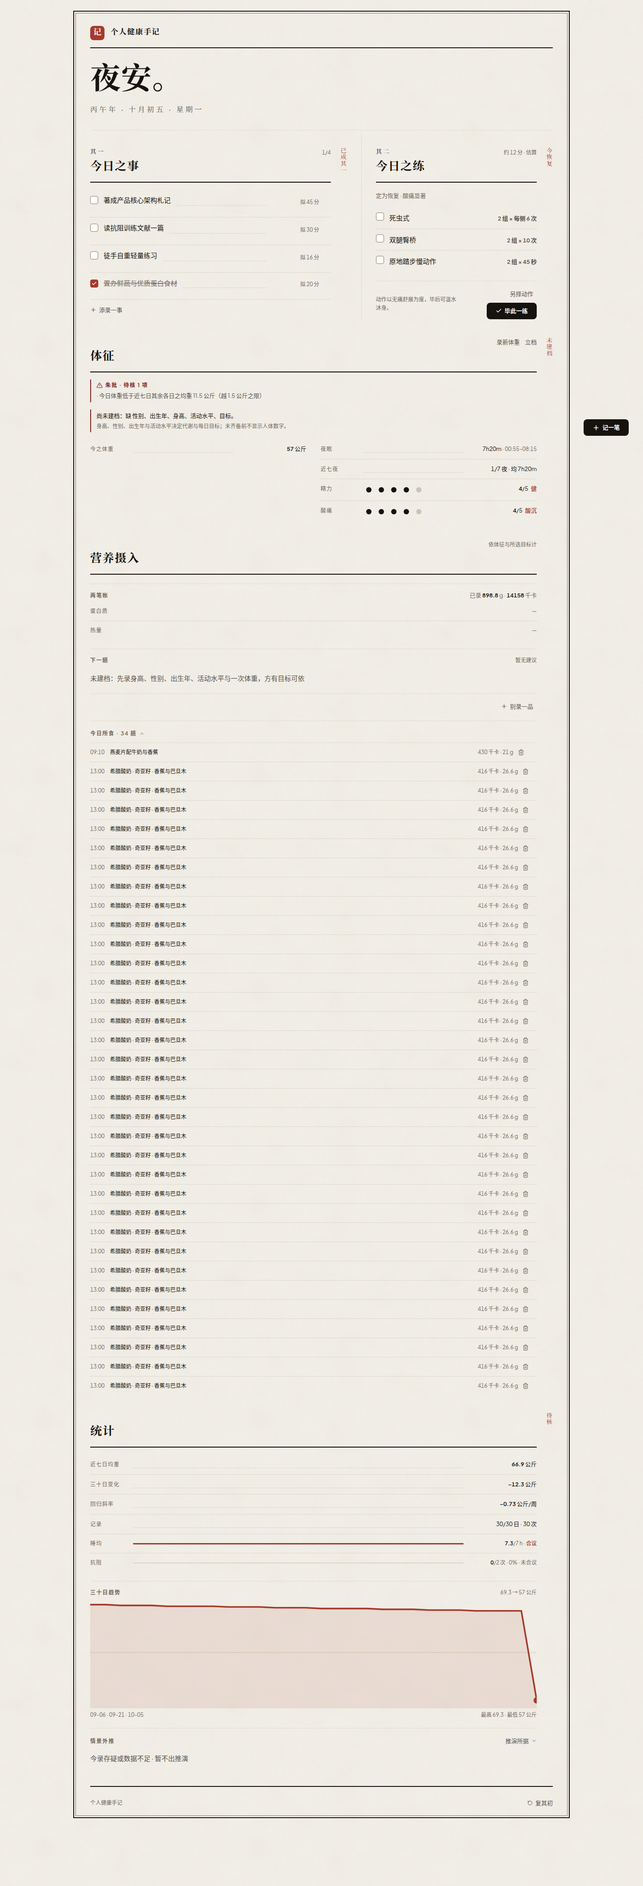
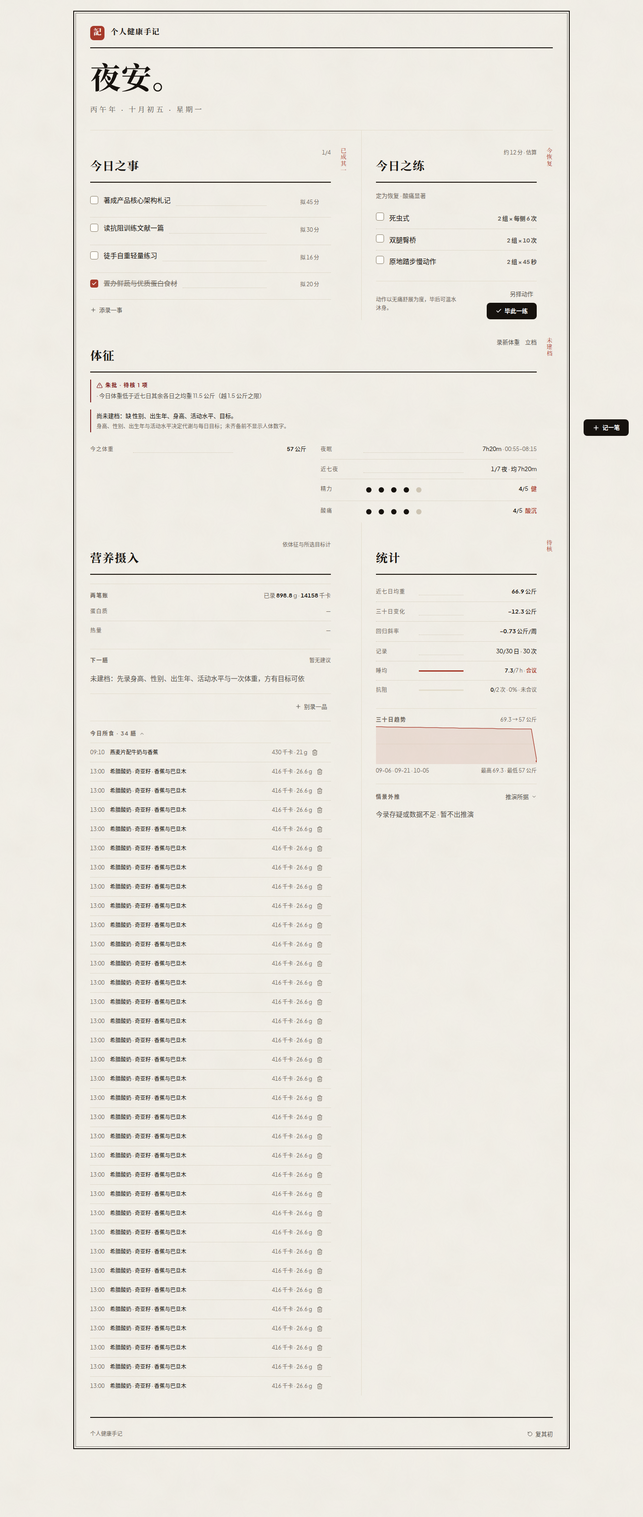
feat(ui): 版式修订三点——印记改繁体「記」、营养摄入与统计同行、撤其一/其二章序
- 繁体印记：public/favicon.svg 与刊头印章单字 记 → 記（繁体），报头与页脚字样不动
- 第二处配对行：营养摄入 ↔ 统计 并入与首行同网格的配对行（1.45fr | auto | 1fr + 1px 折缝，
  上下列缘对齐），体征夹于两行之间仍为唯一通栏；1440 全页高 3266 → 2289px；移动端次序不变
- 撤章序题头：SectionHead 的 ordinal prop 整体移除，眉行只余右注（1/4、约 27 分·估算），
  五处章节头形制完全一致；朱批「已成其一」按计数句释义保留
- 契约随改：layoutContract 行配对落位 ≥3 → ≥6（两处折缝+两格）；探针改「两处配对 +
  两处顶对齐」断言（实测 y 差 0px），LINE_CAPS 重测不变
- 文档同步：README 页面流/区块表/版式/字体段 + 变更清单 22 条；DESIGN 刷新行/IA 配对表/
  术语「不带章序」/成稿截图指向 v2；cnCount 注释更新
- 验证：9 套测试 + tsc + build + e2e（20 断言 exit 0）+ qa-states + 探针 --check
  @1440/1024/1023/768/640/390 六档全 PASS；impeccable detect 5 项 report-only

diff --git a/src/App.tsx b/src/App.tsx
@@ -522,7 +522,7 @@ export default function App() {
         )}
       </AnimatePresence>
 
-      {/* 单页流：刊头 → 其一其二同行 → 通栏体征 → 通栏营养摄入 → 通栏统计（外推收于统计之末） */}
+      {/* 单页流：刊头 → 今日之事 ↔ 今日之练同行 → 通栏体征 → 营养摄入 ↔ 统计同行（外推收于统计之末） */}
       <main className="w-full max-w-[1160px] mx-auto px-3 sm:px-6 py-6">
         {/* 版框：古书页式外粗内细双线，刊头、正文与页脚同入一框 */}
         <div className="border-2 border-ink p-[3px]">
@@ -533,7 +533,7 @@ export default function App() {
           timeGreeting={todayData.timeGreeting}
         />
 
-        {/* 其一其二同行：待办与今日之练排一行（折缝分栏;移动端纵向相随,
+        {/* 今日之事 ↔ 今日之练同行：待办与今日之练排一行（折缝分栏;移动端纵向相随,
             桌面两格同高同顶,章节横线跨栏同 y） */}
         <div className="grid grid-cols-1 lg:grid-cols-[1.45fr_auto_1fr] lg:gap-x-8">
           {/* 折缝：桌面中缝 1px 竖线,移动端隐藏 */}
@@ -579,32 +579,46 @@ export default function App() {
           onEditProfile={() => setProfileSheetOpen(true)}
         />
 
-        {/* 营养摄入通栏：今日之标、两笔账、下一膳与今日所食 */}
-        <NutritionSection
-          targets={todayData.targets}
-          trainingDayTargets={todayData.trainingDayTargets}
-          nutrition={todayData.nutrition}
-          meals={todayData.todayMeals}
-          onDeleteMeal={handleDeleteMeal}
-          nextMeal={todayData.nextMeal}
-          slotLabel={SLOT_CN[todayData.mealSlot] ?? '今日'}
-          goalLabel={GOAL_CN[todayData.profile.goal ?? 'general fitness'] ?? '日常强身'}
-          suggestedLoggedToday={
-            todayData.todayMeals.filter((meal) => meal.source === 'suggested').length
-          }
-          onQuickLogSuggested={handleQuickLogSuggestedMeal}
-          onAddCustomMeal={() => handleOpenRecord('meal')}
-        />
+        {/* 营养摄入 ↔ 统计同行：与第一处配对行同列格同折缝（移动端纵向相随,
+            桌面两格同高同顶,列缘与上一行上下对齐） */}
+        <div className="grid grid-cols-1 lg:grid-cols-[1.45fr_auto_1fr] lg:gap-x-8">
+          {/* 折缝：桌面中缝 1px 竖线,移动端隐藏 */}
+          <div
+            aria-hidden="true"
+            className="hidden lg:block lg:self-stretch lg:col-start-2 lg:row-start-1 w-px bg-line"
+          />
 
-        {/* 统计通栏：由此算出的数、趋势与均值、履行合议与情景外推 */}
-        <StatsSection
-          body={todayData.body}
-          weight={todayData.weight}
-          sleep={todayData.sleep}
-          trainingTarget={todayData.trainingTarget}
-          training={todayData.training}
-          forecast={todayData.forecast}
-        />
+          <div className="lg:col-start-1 lg:row-start-1">
+            {/* 营养摄入：今日之标、两笔账、下一膳与今日所食 */}
+            <NutritionSection
+              targets={todayData.targets}
+              trainingDayTargets={todayData.trainingDayTargets}
+              nutrition={todayData.nutrition}
+              meals={todayData.todayMeals}
+              onDeleteMeal={handleDeleteMeal}
+              nextMeal={todayData.nextMeal}
+              slotLabel={SLOT_CN[todayData.mealSlot] ?? '今日'}
+              goalLabel={GOAL_CN[todayData.profile.goal ?? 'general fitness'] ?? '日常强身'}
+              suggestedLoggedToday={
+                todayData.todayMeals.filter((meal) => meal.source === 'suggested').length
+              }
+              onQuickLogSuggested={handleQuickLogSuggestedMeal}
+              onAddCustomMeal={() => handleOpenRecord('meal')}
+            />
+          </div>
+
+          <div className="lg:col-start-3 lg:row-start-1">
+            {/* 统计：由此算出的数、趋势与均值、履行合议与情景外推 */}
+            <StatsSection
+              body={todayData.body}
+              weight={todayData.weight}
+              sleep={todayData.sleep}
+              trainingTarget={todayData.trainingTarget}
+              training={todayData.training}
+              forecast={todayData.forecast}
+            />
+          </div>
+        </div>
 
         {/* 页脚：2px 粗线收尾 */}
         <footer className="mt-12 pt-6 pb-4 text-xs text-ink4 flex flex-col sm:flex-row items-center justify-between gap-3 font-sans border-t-2 border-ink">

diff --git a/src/components/SectionHead.tsx b/src/components/SectionHead.tsx
@@ -1,11 +1,9 @@
-// 奏折式章节头:眉行(章序 + 右注) → 题行(26px 衬线) → 全页唯一的 2px 墨线。
+// 奏折式章节头:眉行(右注) → 题行(26px 衬线) → 全页唯一的 2px 墨线。
 // 朱批旁注竖排贴在章节右侧的旁批槽(lg:pr-9 预留 36px),窄屏降级为题下横排朱批。
 // deslop-ignore-file 07
 import React from 'react';
 
 interface SectionHeadProps {
-  /** 章序「其一 / 其二 / 其三」;右栏附目与通栏不带章序 */
-  ordinal?: string;
   title: string;
   /** 右注:时段、计数、章节级动作(眉行右端) */
   note?: React.ReactNode;
@@ -13,18 +11,13 @@ interface SectionHeadProps {
   verdict?: string;
 }
 
-export const SectionHead: React.FC<SectionHeadProps> = ({ ordinal, title, note, verdict }) => (
+export const SectionHead: React.FC<SectionHeadProps> = ({ title, note, verdict }) => (
   <div className="relative pb-3 border-b-2 border-ink">
     {/* 题下双线：2px 墨 + 1px 细线（与版框同构） */}
     <div aria-hidden="true" className="absolute inset-x-0 -bottom-[3px] border-b border-line" />
-    {/* 眉行:固定 18px 定高(居中而非基线对齐,免得衬线序与无衬线右注的字面差 2px),
-        保证六个章节头等高 → 跨栏横线同 y */}
+    {/* 眉行:固定 18px 定高(居中而非基线对齐,免得衬线字与无衬线右注的字面差 2px),
+        保证五个章节头等高 → 跨栏横线同 y */}
     <div className="flex items-center gap-4 h-[18px] leading-[18px]">
-      {ordinal && (
-        <span className="font-serif text-[13px] font-bold text-ink2 tracking-[0.3em] shrink-0">
-          {ordinal}
-        </span>
-      )}
       {note && <span className="ml-auto shrink-0">{note}</span>}
     </div>
 

diff --git a/src/tests/layoutContract.test.ts b/src/tests/layoutContract.test.ts
@@ -43,7 +43,7 @@ assert(
   `every <h2 lives in SectionHead.tsx (found in: ${headingFiles.join(', ') || 'none'})`
 );
 
-// 自治章节（自带章节头 + 旁批槽）：其一其二同行 + 三通栏;
+// 自治章节（自带章节头 + 旁批槽）：两处配对行（今日之事/今日之练、营养摄入/统计）+ 体征通栏;
 // NextMealCard 嵌在营养摄入节内为组块,由组题 .group-head 承担,不占章节头。
 const SECTIONED = [
   'TodayTasks.tsx',
@@ -72,10 +72,11 @@ for (const f of componentFiles) {
 }
 
 // --- 3. row pairing in App (cross-column rules must share y) --------------------
-// 新 IA（经批准的重构）：只有其一其二一处配对行(折缝 + 两格 = 3 处落位),
-// 体征/营养/统计为通栏纵列,不再参与行配对;配对等高改由 probe 的行顶/行差断言把守。
+// 新 IA（经批准的重构）：两处配对行——今日之事↔今日之练、营养摄入↔统计
+// (每处 = 折缝 + 两格 = 3 处落位,共 6 处),体征为唯一通栏纵列;
+// 配对等高改由 probe 的行顶/行差断言把守。
 const rowStarts = app.match(/lg:row-start-\d/g) ?? [];
-assert(rowStarts.length >= 3, `App places the paired row explicitly (found ${rowStarts.length} placements)`);
+assert(rowStarts.length >= 6, `App places both paired rows explicitly (found ${rowStarts.length} placements)`);
 assert(app.includes('lg:col-start-1'), 'left column is explicitly placed');
 assert(/lg:col-start-\d/.test(app.replace(/lg:col-start-1/g, '')), 'right column is explicitly placed');
 

diff --git a/src/components/HeaderGreeting.tsx b/src/components/HeaderGreeting.tsx
@@ -16,7 +16,7 @@ export const HeaderGreeting: React.FC<HeaderGreetingProps> = ({
       {/* 刊头：印章 + 报头（录一笔只在右下角一处,不在刊头重复） */}
       <div className="flex items-center gap-3.5 pt-7 pb-4 border-b-2 border-ink">
         <span className="w-8 h-8 shrink-0 grid place-items-center rounded-lg bg-seal text-white font-serif text-lg font-bold select-none">
-          记
+          記
         </span>
 
         <div className="font-serif text-[17px] font-bold text-ink leading-tight tracking-[0.08em]">

diff --git a/src/components/NextWorkoutCard.tsx b/src/components/NextWorkoutCard.tsx
@@ -69,9 +69,8 @@ export const NextWorkoutCard: React.FC<NextWorkoutCardProps> = ({
 
   return (
     <section className="pt-10 lg:pr-9">
-      {/* 章节题：其二 · 今日之练（与「其一 今日之事」同排一行,统一章节头 + 朱批旁注） */}
+      {/* 章节题：今日之练（与「今日之事」同排一行,统一章节头 + 朱批旁注） */}
       <SectionHead
-        ordinal="其二"
         title="今日之练"
         verdict={`今${getTrainingStateLabel()}`}
         note={

diff --git a/src/components/TodayTasks.tsx b/src/components/TodayTasks.tsx
@@ -44,9 +44,8 @@ export const TodayTasks: React.FC<TodayTasksProps> = ({
 
   return (
     <section className="pt-10 lg:pr-9">
-      {/* 章节题：其一 · 今日之事（统一章节头 + 朱批旁注） */}
+      {/* 章节题：今日之事（统一章节头 + 朱批旁注） */}
       <SectionHead
-        ordinal="其一"
         title="今日之事"
         verdict={
           tasks.total === 0

diff --git a/src/utils/cnCount.ts b/src/utils/cnCount.ts
@@ -1,4 +1,4 @@
-// 中文小数计数(零…十),刊头「凡四事,已成其一」与朱批旁注共用。
+// 中文小数计数(零…十),朱批旁注「已成其一」等计数句共用。
 const CN_SMALL = ['零', '一', '二', '三', '四', '五', '六', '七', '八', '九', '十'];
 
 export const cnCount = (n: number): string => (n >= 0 && n <= 10 ? CN_SMALL[n] : String(n));

diff --git a/README.md b/README.md
@@ -13,17 +13,17 @@
 页面按一条自然的单页流组织：
 
 ```
-刊头 → **其一 今日之事 ↔ 其二 今日之练（同一配对行）** → 体征（通栏）→ 营养摄入（通栏）→ 统计（通栏，情景外推收于其末）
+刊头 → **今日之事 ↔ 今日之练（配对行一）** → 体征（通栏）→ **营养摄入 ↔ 统计（配对行二，情景外推收于统计之末）**
 ```
 
 | 区块 | 功能 |
 | --- | --- |
 | **刊头与序** | 印章报头与存储标识；「朝安 / 昼安 / 夜安」时段问候 + 干支日期行——只留问候与日期，今日状况不在刊头重复；一键唤起录事 |
-| **其一 今日之事** | 今日待办（增 / 删 / 勾选），行内「添录一事」速记；每事「拟时长」可随手改、可直清（1–720 分整数，清后行内显示「拟时长 —」）；完成率只由 `status` 决定 |
-| **其二 今日之练** | 与「其一」同一配对行（桌面折缝分栏，移动端相随）：按睡眠、精力、酸痛、今日是否已练判定训练状态（REST / RECOVERY / LIGHT / NORMAL），课表由**肌群账本 + 既往历史 + 每日时间预算**智能搭配组合，时长与恢复指引同列；可就地改每行动作、组数与次数 |
+| **今日之事** | 今日待办（增 / 删 / 勾选），行内「添录一事」速记；每事「拟时长」可随手改、可直清（1–720 分整数，清后行内显示「拟时长 —」）；完成率只由 `status` 决定 |
+| **今日之练** | 与「今日之事」同一配对行（桌面折缝分栏，移动端相随）：按睡眠、精力、酸痛、今日是否已练判定训练状态（REST / RECOVERY / LIGHT / NORMAL），课表由**肌群账本 + 既往历史 + 每日时间预算**智能搭配组合，时长与恢复指引同列；可就地改每行动作、组数与次数 |
 | **体征（通栏）** | 只收**原始事实**，不放示数：今之体重与「录新体重」、建档所录（身高 / 性别 / 岁 / 活动水平 / 腰围）、夜眠**由就寝/起身时刻推得**与近七夜（只按有记录夜数平均）、精力 (1–5)、酸痛 (1–5) 圆点（`DotScale`，点按即调）；数据待核朱批集中于此；未建档只显示缺什么，绝不拿演示数据冒充 |
-| **营养摄入（通栏）** | **依个人体征与饮食目标算出今日之标**：每日热量、每日蛋白（1.4–2.0 g/kg 区间）、每日脂肪与碳水，练日按「×1.1 且至多 +400」上浮（标「练日」）；两笔账（**未达「尚余」、超出「已超」**）、下一膳（基于已摄入缺口排序推荐，给出**热量与蛋白质区间**，「照准」一键入账）、今日所食逐条「掷还」 |
-| **统计（通栏）** | 一切**算出来的数**集中于此：体重指数（WHO 分类）、静息代谢（Mifflin-St Jeor）、总消耗（RMR×PAL）、每周抗阻处方；趋势与均值——近七日均重（留一基线）、三十日变化（端点）与回归斜率**分列**、记录（有效日/原始条数）、睡均与本周抗阻对照 AASM / WHO 合议；附三十日趋势折线（**全页唯一图表**）与情景外推（四周/八周/十二周，`scenario_trend_projection`，标注模型版本与依据日数，数据存疑即暂阙） |
+| **营养摄入（配对行二 · 左）** | **依个人体征与饮食目标算出今日之标**：每日热量、每日蛋白（1.4–2.0 g/kg 区间）、每日脂肪与碳水，练日按「×1.1 且至多 +400」上浮（标「练日」）；两笔账（**未达「尚余」、超出「已超」**）、下一膳（基于已摄入缺口排序推荐，给出**热量与蛋白质区间**，「照准」一键入账）、今日所食逐条「掷还」 |
+| **统计（配对行二 · 右）** | 一切**算出来的数**集中于此：体重指数（WHO 分类）、静息代谢（Mifflin-St Jeor）、总消耗（RMR×PAL）、每周抗阻处方；趋势与均值——近七日均重（留一基线）、三十日变化（端点）与回归斜率**分列**、记录（有效日/原始条数）、睡均与本周抗阻对照 AASM / WHO 合议；附三十日趋势折线（**全页唯一图表**）与情景外推（四周/八周/十二周，`scenario_trend_projection`，标注模型版本与依据日数，数据存疑即暂阙） |
 | **录事弹层** | 底部弹层，三签：进食 / 习练 / 体征；**进食页内嵌食物营养档案库**（115 品、每 100g 的热量/蛋白质/脂肪），搜名即现、点选自动回填克数与约计——档案库只在录入时出现，不占主页 |
 | **决策痕迹（数据层）** | 引擎每次推荐都产出 `trace`（输入快照 / 推导值 / 前提 / 局限）与 `evidenceTraces`（证据出处）；页面不再设稽核弹窗，口径与阈值见本文件「术语与口径」 |
 | **复其初** | 页脚一键恢复到初始的三十日模拟数据 |
@@ -128,16 +128,16 @@ src/
 
 ### 字体与视觉约定（编辑式手记风）
 
-- **三个 Web 字体，各司其职**：`Newsreader` + `Noto Serif SC` 只用于标题、章序与大号数字，`Plus Jakarta Sans` 承担正文、标签与小号数字（统一 `tabular-nums`），`font-mono` 是系统等宽栈、**只用于规则 ID / 证据键名**。
-- **标题全中文、古记事体**：章节头统一由 `src/components/SectionHead.tsx` 输出：**眉行（章序＋右注，固定 18px）→ 题行 26px 衬线 → 外粗内细双线（2px 墨 + 1px 细）**，右栏附目与通栏同规格；眉行右端之外，章节右侧另有 36px **旁批槽**，朱色竖排小字写裁决（如「已成其一」「照减脂之期」「抗阻合议」），窄屏降级为题下横排朱批，日期行是干支年 + 中文月日 + 星期（如 `丙午年 · 九月廿五 · 星期五`，由时钟推导，1984 年为甲子），刊头是朱红「记」印章 + 「个人健康手记」报头，刊头与页脚各压一条 2px 墨线。
+- **三个 Web 字体，各司其职**：`Newsreader` + `Noto Serif SC` 只用于标题与大号数字，`Plus Jakarta Sans` 承担正文、标签与小号数字（统一 `tabular-nums`），`font-mono` 是系统等宽栈、**只用于规则 ID / 证据键名**。
+- **标题全中文、古记事体**：章节头统一由 `src/components/SectionHead.tsx` 输出：**眉行（右注，固定 18px）→ 题行 26px 衬线 → 外粗内细双线（2px 墨 + 1px 细）**，右栏附目与通栏同规格；眉行右端之外，章节右侧另有 36px **旁批槽**，朱色竖排小字写裁决（如「已成其一」「照减脂之期」「抗阻合议」），窄屏降级为题下横排朱批，日期行是干支年 + 中文月日 + 星期（如 `丙午年 · 九月廿五 · 星期五`，由时钟推导，1984 年为甲子），刊头是朱红繁体「記」印章 + 「个人健康手记」报头（站点图标同字），刊头与页脚各压一条 2px 墨线。
 - **设计令牌集中在 `src/index.css @theme`**：纸色 `--color-paper #f4f0e8`、卡面 `#fffdf8`、线 `#e3dccc`、墨 `#16120e`（次级 `#57534e` / `#6f675e` / `#736b61`，四档对纸底 16.4 : 6.7 : 4.9 : 4.6:1，**全部 ≥4.5:1**）。**既定锚色**：古书纸（纸/面/线全套）与批朱红 `#a63a2b`。功能色取五版比选稿 `docs/palette-options.html` 中选中的**「其五 · 朱墨双色」**（奏折制：墨＝臣工所书，朱＝御批）：唯一强调色 `--color-accent #a63a2b` 朱批（对纸 5.66:1、白字压朱 6.44:1；浅调 `#fbeee9` / `#f2d9d0`、压墨亮色 `#fda4af` 9.85:1），**朱同时承担刊头印章与状态色**；危险色 `--color-danger #7f1d1d` 紫檀绛（8.82:1、白字 10.02:1，与朱拉明度差）、证据次级色 `--color-tier2 #7a5a2e` 褐（5.55:1）、控件边框 `--color-control #877c69`（3.61:1，满足 WCAG 1.4.11）。文字色阈值由 `src/tests/contrast.test.ts` 回归锁定。
 - **可读性与无障碍地板（本轮新增约定）**：正文/元信息字号地板 **12px**、交互文字 13px（源码中已无 `text-[11px]`/`text-[11.5px]`，仅规则 ID 等宽行保留 11px）；`:focus-visible` 全局 2px 墨线焦点环，源码**不得**再用 `outline-hidden` 类吃环；所有点击目标 ≥24px（复选框为「24px 热区 + 18px 可视」双层、1–5 分圆点 `w-6 h-6`、图标按钮 `p-1.5`）；带 `onClick` 的行一律用 `<button>` 并带 `aria-pressed`；体重图 `aria-label` 携带真值与单位。
-- **动作两级体系，朱只表裁决与状态**：`.btn-primary`（墨实心：照准 / 毕此一练 / 览毕）→ `.btn-link`（文字链：别录一品 / 另择动作 / 添录一事 / 记此一刻 / 复其初 / 推演所据等），类定义在 `src/index.css @layer components`。**朱只用于「已成 / 达标 / 御批 / 图表」**：勾选框、完成徽标、Toast 勾、达标句（合议 · 每周两日抗阻 / 合议 · 七时之基）、状态词（健 / 微酸）、旁批、计量条达标填充与体重折线；章序与一切动作型文字/图标改为墨色。
+- **动作两级体系，朱只表裁决与状态**：`.btn-primary`（墨实心：照准 / 毕此一练 / 览毕）→ `.btn-link`（文字链：别录一品 / 另择动作 / 添录一事 / 记此一刻 / 复其初 / 推演所据等），类定义在 `src/index.css @layer components`。**朱只用于「已成 / 达标 / 御批 / 图表」**：勾选框、完成徽标、Toast 勾、达标句（合议 · 每周两日抗阻 / 合议 · 七时之基）、状态词（健 / 微酸）、旁批、计量条达标填充与体重折线；一切动作型文字/图标改为墨色。
 - **圆角只有一档 8px**（`rounded-lg`），只留表单控件与按钮；`rounded-full` 只留给真正的圆形（状态点、圆点单选）；没有 `backdrop-blur`、没有超大阴影，**页面栏目一律不用卡片容器**。
 - **仿真古书纸与版框**：`body` 以 `--color-paper` 为底，叠两层内联 SVG 噪点（纤维纹 6% + 陈化斑驳 7%，不用氛围渐变）做纸张质感；全页内容入「外粗内细」双线版框（`border-2` 外框 + `border/55` 内线），刊头、正文与页脚同框；区块只以墨色粗细线与点线分隔，数值一律入句。
 - **全页只留一张图表，其余数字入句**：唯一图表是 30 日体重折线（`TodayData.weightSeries`，手画 SVG，来自真实记录、不造序列）；摄入、趋势、预测区间都写成手记行文，精力与酸痛用两行对齐的 1–5 圆点点按——**没有 KPI 卡、没有瓦片墙、没有环形进度**；比例信息只用**墨线计量条**（`RuleMeter`：3px 直角细线，底轨 `--color-line`，填充墨＝进行中 / 朱＝达标 / 绛＝超录，无圆角阴影渐变动画），百分比与分子分母一律以真实文本入句（蛋白质 63/110 g · 57%、抗阻 2/2 · 100% · 合议、睡均 7.3/7 h）；睡眠只报达标与否、不给百分比。
-- **版式**：容器 1100px；**唯一配对行**＝其一 今日之事 ↔ 其二 今日之练（桌面 `lg:grid-cols-[1.45fr_auto_1fr]` 显式落位，中缝一条 1px 折缝线，两章横线跨栏同 y；两格同高，移动端纵排相随）；其下三节**通栏纵列**＝体征 → 营养摄入 → 统计（各自 `lg:pr-9` 留 36px 旁批槽；统计以「情景外推」组块收尾）。体征与统计内部再按两栏并置，各栏自成一轴（名/中/值三列同轴全等，探针逐轴校验）。移动端单栏按 DOM 次序（其一 → 其二 → 体征 → 营养摄入 → 统计）。章节级动作统一收在章末「动作脚注行」（`.section-actions`），节内小标题用 `.group-head`。
-- **文案全取古风行文，不用现代白话**：时段问候作「朝安 / 昼安 / 夜安。」，主句作「凡四事，已成其一。」；章节作「下一膳 / 今日之练」，动作作「录之 / 罢 / 照准 / 毕此一练 / 览毕」，危险动作作「掷还」，报错作「膳食之录未成（code）」，反馈作「知道了 · 一事已列入今日之册」（成功回执一律冠「知道了 ·」，失败不冠），达标作「合议 / 未合议 · 尚差二日」，页脚只留报头与「复其初」；记录表单标签（餐别 / 所食之物 / 就寝 / 起身 / 精力 / 酸痛 …）同此体例。**保留不改的只有三类**：文献引文与 `claim`/`limitations`（`scientificEvidence.ts`，学术原貌即证据本身）、规则 ID 与 ASCII 单位符号（kcal / kg / AASM / RIR）、食物与练习的中文专名。
+- **版式**：容器 1100px；**两处配对行**＝① 今日之事 ↔ 今日之练 ② 营养摄入 ↔ 统计（同为桌面 `lg:grid-cols-[1.45fr_auto_1fr]` 显式落位，各以一条 1px 折缝分栏，上下列缘对齐、两章横线跨栏同 y；两格同高，移动端纵排相随）；**体征为唯一通栏节**，夹于两行之间（`lg:pr-9` 留 36px 旁批槽；统计以「情景外推」组块收尾）。体征内部按两栏并置、各栏自成一轴（名/中/值三列同轴全等，探针逐轴校验）。移动端单栏按 DOM 次序（今日之事 → 今日之练 → 体征 → 营养摄入 → 统计）。章节级动作统一收在章末「动作脚注行」（`.section-actions`），节内小标题用 `.group-head`。
+- **文案全取古风行文，不用现代白话**：时段问候作「朝安 / 昼安 / 夜安。」；章节作「下一膳 / 今日之练」，动作作「录之 / 罢 / 照准 / 毕此一练 / 览毕」，危险动作作「掷还」，报错作「膳食之录未成（code）」，反馈作「知道了 · 一事已列入今日之册」（成功回执一律冠「知道了 ·」，失败不冠），达标作「合议 / 未合议 · 尚差二日」，页脚只留报头与「复其初」；记录表单标签（餐别 / 所食之物 / 就寝 / 起身 / 精力 / 酸痛 …）同此体例。**保留不改的只有三类**：文献引文与 `claim`/`limitations`（`scientificEvidence.ts`，学术原貌即证据本身）、规则 ID 与 ASCII 单位符号（kcal / kg / AASM / RIR）、食物与练习的中文专名。
 - 少量扫描器命中是**刻意保留**的（衬线标题、圆形控件、已完成事项的删除线、规则 ID 的等宽字、图表端点圆点），在源码里用 id 级注释标注原因，例如 `deslop-ignore-file 07 09`；现行扫描门禁为 `impeccable detect`（对运行页面）——5 项 report-only（暖纸底与主字体为本册定稿的自觉选择、章节头上下留白节奏 ×3），无破坏性发现。
 
 ### Visual Ralph 参考稿与实现偏差
@@ -303,6 +303,13 @@ npm run build
     - **IA 重构**：删状态句（刊头只留问候与日期）；今日之事 ↔ 今日之练并为**唯一配对行**；体征（原始事实 + 待核朱批）/ 营养摄入（目标 + 两笔账 + 下一膳 + 所食账）/ 统计（派生数 + 趋势图 + 合议 + 情景外推）三通栏纵列——原「今日体感 / 身体近况 / 体征档 / 近况 / 情景外推」五节解散归位（`BodySection` / `NutritionSection` / `StatsSection` 三个新组件，旧五件删除）。
     - **契约重切**：`layoutContract` 的 SECTIONED、行配对（唯一配对行 ≥1 对，旧 ≥6 落位锁作废）、骨架文件清单随新 IA 更新；`presentationContract` 的展示文件与「单源」断言改指新主（刊头锁死不回流状态句）；探针 LINE_CAPS 按新五节重测登记、章节头 ≥5、配对断言改一对；e2e 轴校验按「章节 + 名列左缘」分组（通栏与半栏同 x 不同轴）。
     - **验证**：9 套测试 + `tsc` + `build` + e2e 全绿；`layout-probe --check` @1440 / 1023 / 768 / 640 / 390 全 PASS（溢出 0、配对行高差 0、同轴三列全等）；qa-states 注入遗留异常态仍「待核 · 不出推演」且今之体重原样 57；1440 与 390 截图复核。
+
+22. **版式修订**（本轮，用户三点意见）：
+    - **繁体印记**：刊头印章与站点图标（`public/favicon.svg`）的单字由「记」改「記」，报头与页脚字样不动。
+    - **营养摄入 ↔ 统计同行**：两节并入**第二处配对行**（与首行同网格 `1.45fr | auto | 1fr`、同折缝、上下列缘对齐），体征夹于两行之间仍为唯一通栏；1440 全页高由 3266 → 2289px。
+    - **撤章序题头**：删除「其一 / 其二」眉行章序（`SectionHead` 的 `ordinal` prop 整体移除，眉行只余右注），五处章节头形制完全一致；朱批「已成其一」按计数释义保留。
+    - **契约与工具随改**：`layoutContract` 行配对落位 ≥6（两处折缝+两格）；探针改「两处配对 + 两处顶对齐」断言，LINE_CAPS 重测不变；新增工具层教训——**e2e 输出勿重定向入工作区**（Vite watch 见工作区写入即 full-reload，杀掉运行中弹层），已在 `e2e.mjs` 头注明改走管道或 `/tmp`。
+    - **验证**：9 套测试 + `tsc` + `build` + e2e（exit 0）+ qa-states + 六档探针 @1440/1024/1023/768/640/390 全 PASS；`impeccable detect` 5 项 report-only；截图 `.shots/v2-desktop.png` / `.shots/v2-mobile.png`。
 
 ### 仍待补齐（真实项目的下一步）
 

diff --git a/DESIGN.md b/DESIGN.md
@@ -2,13 +2,13 @@
 
 ## Source of truth
 - Status: **Active**
-- Last refreshed: 2026-10-05（八点重构：食物营养档案库 + 摄入依个人数据计算 + 训练计划智能搭配 + IA 重构——刊头只留问候、其一其二并为唯一配对行、体征/营养摄入/统计三通栏，原五节解散归位；此前：五项优化与三域改造）
+- Last refreshed: 2026-10-05（八点重构：食物营养档案库 + 摄入依个人数据计算 + 训练计划智能搭配 + IA 重构，原五节解散归位；随后依用户三点意见修订——印章改繁体「記」、营养摄入与统计并为第二处配对行、撤「其一/其二」章序题头；此前：五项优化与三域改造）
 - Primary product surfaces:
-  - 单页主应用 `src/App.tsx`（刊头 → 配对行（其一 今日之事 ↔ 其二 今日之练，折缝分栏） → 通栏体征 → 通栏营养摄入 → 通栏统计（情景外推收于其末） → 页脚，版框内单页流）
+  - 单页主应用 `src/App.tsx`（刊头 → 配对行一（今日之事 ↔ 今日之练，折缝分栏） → 通栏体征 → 配对行二（营养摄入 ↔ 统计，情景外推收于其末） → 页脚，版框内单页流）
   - 建档弹层 `src/components/ProfileSheet.tsx`（立档 / 改档：性别·出生年·身高·活动水平·腰围·目标·每日训练时间预算）
   - 录事弹层 `src/components/RecordSheet.tsx`（三签：进食 / 习练 / 体征；进食页内嵌食物营养档案库搜选，库不上主页）
   - 比选稿 `docs/palette-options.html`（五版色组，当前选中其五）
-  - 成稿截图 `.shots/b4-desktop.png`（1440 全页）、`.shots/b4-mobile.png`（390 全页）、`.shots/za-mobile-*.png`（历史局部）
+  - 成稿截图 `.shots/v2-desktop.png`（1440 全页）、`.shots/v2-mobile.png`（390 全页）、`.shots/b4-*.png`（上一版）、`.shots/za-mobile-*.png`（历史局部）
 - Evidence reviewed:
   - `README.md`（§2 功能表、§字体与视觉约定、变更清单 1–21 条、仍待补齐）
   - `src/index.css` `@theme` 令牌与 `@layer components`（btn 三级、`.section-actions`、`.leader`）
@@ -27,27 +27,28 @@
 ## Product goals
 - Goals: 让人一眼看清「现在该吃、该动、身体如何」，且每条建议都可追溯到规则与证据；改版后额外目标是**版面本身可信**——横线对齐、动作不浮空、比例有余光线索。
 - Non-goals: 多页面路由、社交/排行榜、生成式内容（LLM = OFF）、后端排版本轮不动；页面上不设决策稽核入口（痕迹留在数据层与 README）。
-- Success signals: 唯一配对行两章横线跨栏 y 差 ≤2px（实测 0px）；移动端标题左缘一致（全页同缘）；9 套测试 + tsc + build + e2e + 五档探针全绿；截图复核无浮空/挤行。
+- Success signals: 两处配对行各两章横线跨栏 y 差 ≤2px（实测 0px）、上下列缘对齐；移动端标题左缘一致（全页同缘）；9 套测试 + tsc + build + e2e + 六档探针全绿；截图复核无浮空/挤行。
 
 ## Personas and jobs
 - Primary personas: 唯一用户——记录自己健康账目的中文使用者，桌面查、手机记。
-- User jobs: ① 今日要做什么、练什么（其一 ↔ 其二同一配对行，先看裁决再看清单）② 体征如何（体征通栏：睡眠、体感、今之体重、档案所录）③ 该吃多少、吃了多少（营养摄入通栏：今日之标、两笔账、下一膳、所食账）④ 是否在正轨（统计通栏：派生数、趋势、合议、情景外推）⑤ 随手记一笔（右下 FAB）。
+- User jobs: ① 今日要做什么、练什么（今日之事 ↔ 今日之练同一配对行，先看裁决再看清单）② 体征如何（体征通栏：睡眠、体感、今之体重、档案所录）③ 该吃多少、吃了多少（营养摄入：与统计同行，今日之标、两笔账、下一膳、所食账）④ 是否在正轨（统计：与营养摄入同行，派生数、趋势、合议、情景外推）⑤ 随手记一笔（右下 FAB）。
 - Key contexts of use: 桌面 1440 浏览全页；手机 390 单手速记；两者都要求扫读时先看到「裁决」再看到细节。
 
 ## Information architecture
 - Primary navigation: 无路由；单页纵向流 + 录事弹层。
-- Core routes/screens: 刊头（印章 + 时段问候 + 干支日期）→ 配对行（其一/其二）→ 通栏体征 → 通栏营养摄入 → 通栏统计 → 页脚（复其初）；录事靠右下 FAB 单入口。
+- Core routes/screens: 刊头（繁体「記」印章 + 时段问候 + 干支日期）→ 配对行一（今日之事/今日之练）→ 通栏体征 → 配对行二（营养摄入/统计）→ 页脚（复其初）；录事靠右下 FAB 单入口。
 - Content hierarchy:
-  - **行动类**（唯一配对行）：其一 今日之事、其二 今日之练——目录式清单 + 章末动作脚注行。
+  - **行动类**（配对行一）：今日之事、今日之练——目录式清单 + 章末动作脚注行。
   - **体征通栏**：只收原始事实——今之体重、档案所录（身高/性别/岁/活动/腰围）、夜眠与近七夜、精力·酸痛 1–5 圆点、数据待核朱批；未建档只显缺项。
-  - **营养摄入通栏**：今日之标（每日热量/蛋白/脂肪/碳水，练日上浮）、两笔账（蛋白质/热量计量条，尚余/已超）、下一膳（组块，`.group-head`）、今日所食（逐条掷还）。
-  - **统计通栏**：一切算出来的数——BMI/RMR/TDEE/每周抗阻（未建档不出人体数字）、近七日均重/三十日变化/回归斜率/记录、睡均与抗阻合议计量条、三十日趋势图（全页唯一图表）、情景外推（组块：四周/八周/十二周 + 推演所据，存疑即暂阙）。
-  - 桌面唯一配对行（两格同高、章节横线跨栏同 y，探针断言行差与配对）：
+  - **营养摄入（配对行二 · 左）**：今日之标（每日热量/蛋白/脂肪/碳水，练日上浮）、两笔账（蛋白质/热量计量条，尚余/已超）、下一膳（组块，`.group-head`）、今日所食（逐条掷还）。
+  - **统计（配对行二 · 右）**：一切算出来的数——BMI/RMR/TDEE/每周抗阻（未建档不出人体数字）、近七日均重/三十日变化/回归斜率/记录、睡均与抗阻合议计量条、三十日趋势图（全页唯一图表）、情景外推（组块：四周/八周/十二周 + 推演所据，存疑即暂阙）。
+  - 桌面两处配对行（两格同高、章节横线跨栏同 y、上下列缘对齐，探针断言行差与配对）：
     | 行 | 左 | 折缝 | 右 |
     | --- | --- | --- | --- |
-    | 一 | 其一 今日之事 | 1px | 其二 今日之练 |
-  - 通栏三节无配对，纵向排列（体征 → 营养摄入 → 统计），各留 36px 旁批槽。
-  - 移动端单栏次序（README §1 已同步）：其一 → 其二 → 体征 → 营养摄入 → 统计。
+    | 一 | 今日之事 | 1px | 今日之练 |
+    | 二 | 营养摄入 | 1px | 统计 |
+  - 体征为唯一通栏节，夹于两行之间；各节 `lg:pr-9` 留 36px 旁批槽。
+  - 移动端单栏次序（README §1 已同步）：今日之事 → 今日之练 → 体征 → 营养摄入 → 统计。
 
 ## Data semantics（数据语义，先于视觉）
 - 四层：**Raw**（用户/设备记录）→ **Derived**（`src/domain/` 纯函数）→ **Decision**（Derived + `policy.ts`）→ **Presentation**（组件只措辞）。
@@ -66,7 +67,7 @@
 - Principle 2 — **信息按性质选形态**：比例 → 计量条；可执行 → 目录清单 + 动作脚注；可感知 → 入句 + 单图 + 点阵；叙述 → 行文。不为「好看」给事实加容器。
 - Principle 3 — **对齐即可信**：章节头一律出自一个组件，横线必须跨栏同 y；章节级动作一律落在章末脚注行，不浮空。
 - Principle 4 — **数值一律入句**，计量条只是句子的余光注脚；百分比永远是真实文本（可选中、可朗读）。
-- Tradeoffs: 配对行两格同高（格底以内容较高者为准，格内自然留白受探针 ≤110px 约束）；眉行式章节头比行内章序高约 6px/节（换取标题左缘一致）；朱与绛明度接近，故绛只用于「超录/删除」两种极少数场景。
+- Tradeoffs: 配对行两格同高（格底以内容较高者为准，格内自然留白受探针 ≤110px 约束）；章节头保留固定 18px 眉行（换取标题左缘一致与跨栏同 y，眉行只载右注）；朱与绛明度接近，故绛只用于「超录/删除」两种极少数场景。
 
 ## Visual language
 - Color（`src/index.css @theme`，全部由 `contrast.test.ts` 锁定）:
@@ -80,7 +81,7 @@
   | `danger`（紫檀绛） | `#7f1d1d` | 超录、删除、报错 | 对纸 8.82、白字 10.02 |
   | `tier2`（褐） | `#7a5a2e` | 证据次级 | 对纸 5.55 |
   | `control` | `#877c69` | 控件边框 | 对纸 3.61（≥3） |
-- Typography: `Newsreader` + `Noto Serif SC` 只用于章节题（26px/`tracking-.06em`）、章序（13px/`tracking-.3em`）、大号数字与条目名；`Plus Jakarta Sans` 承担正文（15px / 13px / 12px 地板）与小号数字（`tabular-nums`）；`font-mono` 只给规则 ID 与证据键名。
+- Typography: `Newsreader` + `Noto Serif SC` 只用于章节题（26px/`tracking-.06em`）、大号数字与条目名；`Plus Jakarta Sans` 承担正文（15px / 13px / 12px 地板）与小号数字（`tabular-nums`）；`font-mono` 只给规则 ID 与证据键名。
 - Spacing rhythm: 版框 `border-2` + `border/55` 双线；章节顶距 `pt-10`（40px）为唯一档；节内分组只用 `mt-4 / mt-5 / mt-3` 与 `border-t border-linesoft`；桌栏间距 `lg:gap-x-8` + 中缝折线；正文右留 36px 旁批槽（`lg:pr-9`）。
 - Shape/radius/elevation: 圆角只有一档 8px（表单与按钮）；圆形只留给点阵与状态点；无卡片、无阴影堆砌、无 backdrop-blur；页面栏目一律直接落在纸面。
 - Motion: 仅 `transition-colors 150ms`（控件）与 Toast/弹层的 `motion/react` 进出；**计量条不做动画**（宽度静态，避免仪表感）。
@@ -89,12 +90,12 @@
 ## Components
 - Existing components to reuse: `SectionHead`、`RuleMeter`、`.btn-primary` / `.btn-link`、`.section-actions`、`.leader`、`WeightTrendChart`、`RecordSheet`、`BodySection` / `NutritionSection` / `StatsSection`（本轮新设的三通栏）、`ProfileSheet`。
 - New/changed components:
-  - `src/components/SectionHead.tsx`（新）：眉行（章序 + 右注）→ 题行 → 2px 墨线 + 竖排朱批旁注；全页 5 处章节头（其一/其二 + 三通栏）唯一出口。
+  - `src/components/SectionHead.tsx`（新）：眉行（右注）→ 题行 → 2px 墨线 + 竖排朱批旁注；全页 5 处章节头（两处配对行 + 体征通栏）唯一出口，章序已撤。
   - `src/components/RuleMeter.tsx`（新）：`label | 3px 条 | 分子/分母/百分比`；`tone: ink | accent | danger`；`max<=0` 时渲染 `—`。
   - `Marginalia` 内联于 `SectionHead`（`verdict` prop）：桌面 `absolute -right-9 -top-0.5` + `[writing-mode:vertical-rl]`，≤768 换行内横排。
   - `.section-actions`（`@layer components`）：章末动作脚注行；窄屏 `flex-col`、sm+ 一行两端。
   - `src/utils/cnCount.ts`：中文计数（刊头与朱批共用，消除重复实现）。
-- Variants and states: 计量条三色 tone；旁批有/无；章节头有/无章序；动作脚注左槽可为数值组或提示文字。
+- Variants and states: 计量条三色 tone；旁批有/无；章节头右注有/无；动作脚注左槽可为数值组或提示文字。
 - Token/component ownership: 颜色只允许出现在 `index.css`；组件内禁止字面 hex（由 `layoutContract.test.ts` 断言）。
 
 ## Accessibility
@@ -106,7 +107,7 @@
 
 ## Responsive behavior
 - Supported breakpoints/devices: 1440 / 1024 / 768（单栏分界）/ 390。
-- Layout adaptations: `lg:` 起启用唯一配对行（`1.45fr | auto | 1fr` + 折缝）+ 竖排旁批；通栏内两栏并置也只在 `lg:` 起；`sm:` 起动作脚注改一行两端；其余单栏按 DOM 次序流下。探针要求五档 `overflow = 0`。
+- Layout adaptations: `lg:` 起启用两处配对行（同 `1.45fr | auto | 1fr` 网格 + 折缝，列缘上下对齐）+ 竖排旁批；通栏内两栏并置也只在 `lg:` 起；`sm:` 起动作脚注改一行两端；其余单栏按 DOM 次序流下。探针要求五档 `overflow = 0`。
 - Touch/hero differences: 移动端动作整行另起、右对齐；点阵与复选框保持 24px 热区；FAB「记一笔」常驻，页面 `pb-32` 让位。
 
 ## Interaction states
@@ -122,12 +123,12 @@
 - **不写方法学**：`非首末/不予修改/仅标记/仅指/非健康度/非承诺/做线性回归/原始记录…` 等句子禁止出现在页面（`layoutContract` 锁定），口径写入 README「术语与口径」，模型出处写入「推演所据」面板。
 - 判定与其数值同行（`RuleMeter suffix`：`2/2 次 · 100% · 合议`），不再单列「判」行。
 - 数据待核的措辞固定为「朱批 · 待核 N 项」＋「今日体重高于/低于近七日其余各日之均重 X 公斤」——集中于体征通栏的 `DataQualityNote`，只标不改，口径归 README「术语与口径」。
-- Terminology: 章作「其一/其二」，节作「体征 / 营养摄入 / 统计」，膳作「下一膳」，练作「今日之练」，记录作「录之/添录一事」。
+- Terminology: 章作「今日之事 / 今日之练」（不带章序），节作「体征 / 营养摄入 / 统计」，膳作「下一膳」，练作「今日之练」，记录作「录之/添录一事」。
 - Microcopy rules（御批词表，`layoutContract.test.ts` 锁定关键项）:
   | 场合 | 用词 |
   | --- | --- |
   | 成功回执 | 「知道了 · 膳食已录于册」（一律冠前缀；失败**不**冠） |
-  | 主确认 | 「照准」（其二记账、录事弹层提交） |
+  | 主确认 | 「照准」（今日之练记账、录事弹层提交） |
   | 危险/删除 | 「掷还」（今日之事删条 title） |
   | 达标 | 「合议 · 每周两日抗阻」「合议 · 七时之基 AASM 2015」 |
   | 未达标 | 「未合议 · 尚差 N 日」「未合议 · 不及七时之基 AASM 2015」 |
@@ -148,10 +149,10 @@
 - [ ] BMI 分不清肌肉与脂肪：已用腰围作第二证据，是否再加体脂率（需设备测量）待定。Owner: 用户 / 影响: 判定精度。
 - [ ] `共列网格` 的名列定宽 84px 意味着标签限 5 字以内；若未来出现更长指标名，需要新的网格变体或允许折行。
 - [ ] 名录式条目的点线引导在中列伸缩（标题越长点线越短）；是否改为「点线定长 + 标题截断」待定。
-- [x] **IA 重构已按批准方案执行**：右栏三行配对取消，改为唯一配对行（其一 ↔ 其二）+ 体征/营养摄入/统计三通栏纵列；五旧节解散归位，原「右栏次序」问题随之消失。
+- [x] **IA 重构已按批准方案执行**：右栏三行配对取消，改为两处配对行（今日之事 ↔ 今日之练、营养摄入 ↔ 统计，体征居间通栏）；五旧节解散归位，原「右栏次序」问题随之消失。
 - [ ] `UserProfile.currentWeight` 仍是「最近测量」缓存，页面已不读；是否彻底移除该字段（需改引擎入参契约）。Owner: 实现 / 影响: 类型。
 - [ ] 预测是否落库为 `WeightPrediction` 记录以支持「上期推演 vs 本期实测」误差复验。Owner: 用户 / 影响: 数据模型。
 - [ ] 朱兼印章与状态两色同值（`seal === accent`），若嫌印章存在感被稀释，是否给印章加深 1px 绛边。Owner: 用户 / 影响: 刊头。
 - [ ] 旁批文案目前由各组件就地拼装（取自真实数据），是否要抽成统一 `verdicts.ts` 词表以便统一口吻。Owner: 实现 / 影响: 可维护性。
-- [ ] 计量条是否扩展到「其一完成度 x/4」（用户本轮明确**不**选，现为纯文本）。Owner: 用户 / 影响: 计量范围。
+- [ ] 计量条是否扩展到「今日之事完成度 x/4」（用户本轮明确**不**选，现为纯文本）。Owner: 用户 / 影响: 计量范围。
 - [ ] 版式回归目前是源码契约 + 几何探针，是否再上像素级 diff 基线。Owner: 工程 / 影响: 回归强度。
